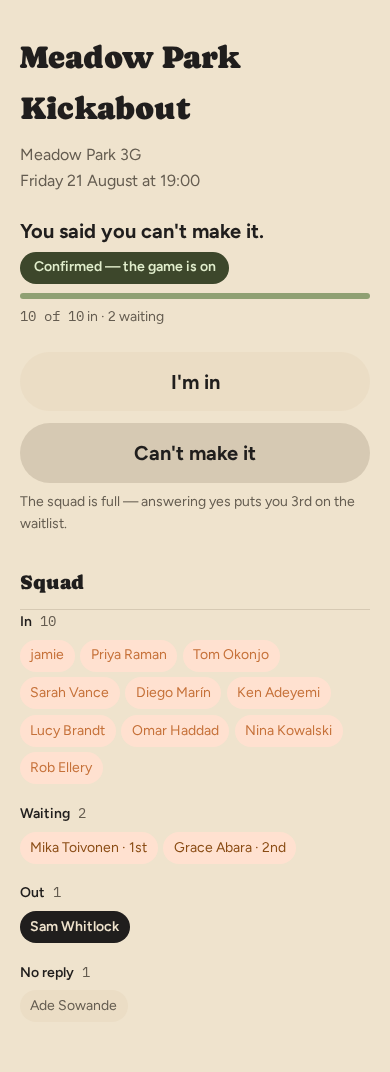
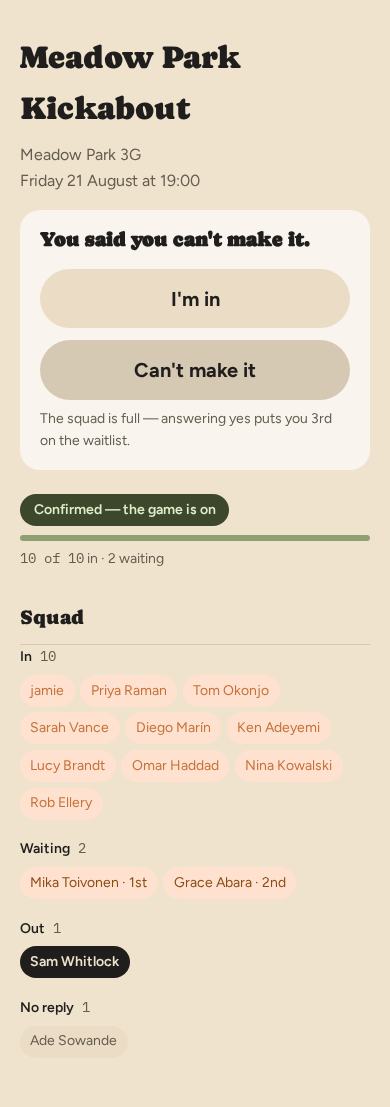
feat: the response page says your state once, in one block (M20 B7)
Claude-Session: https://claude.ai/code/session_01Erq3NJUsRVuCbi3ifphCse

diff --git a/test/views/fixture.test.ts b/test/views/fixture.test.ts
@@ -186,8 +186,10 @@ describe("fixture page", () => {
       // Search for the opening tags, not the bare class names — the
       // stylesheet in <head> mentions both class names ahead of either
       // actual element, which would make a bare substring search find the
-      // CSS rule instead of the rendered markup.
-      const headlineIndex = html.indexOf('<p class="viewer-headline');
+      // CSS rule instead of the rendered markup. The headline is the answer
+      // block's h2 since M20 B7; the block still sits above the badge, which
+      // is the guarantee this test exists for.
+      const headlineIndex = html.indexOf('<h2 class="viewer-headline');
       const badgeIndex = html.indexOf('<p class="status-badge');
       expect(headlineIndex).toBeGreaterThan(-1);
       expect(badgeIndex).toBeGreaterThan(-1);
@@ -1224,5 +1226,90 @@ describe("a stored lifecycle this build has never heard of", () => {
     const html = renderStatusLine(view(`x" onclick="alert(1)` as never), 0);
     expect(html).not.toContain(`onclick="alert(1)"`);
     expect(html).toContain("&quot;");
+  });
+});
+
+/**
+ * M20 B7. The viewer's own state — the headline, the buttons or the read-only
+ * sentence, and the pre-tap warning — is said once, in one tinted block, with
+ * the fixture's impersonal facts below it rather than interleaved with it.
+ */
+describe("the answer block (M20 B7)", () => {
+  /** The answer section's inner HTML, or null if the page rendered no block. */
+  function answerBlock(html: string): { state: string; inner: string } | null {
+    const match = html.match(/<section class="answer answer-([a-z]+)">([\s\S]*?)<\/section>/);
+    return match === null ? null : { state: match[1] as string, inner: match[2] as string };
+  }
+
+  it("wraps headline, buttons and full-warning in one state-classed section", () => {
+    const html = renderFixturePage(
+      optionsWith({
+        view: { status: "confirmed", flags: [], inCount: 14, minPlayers: 10, maxPlayers: 14, spotsLeft: 0, needsOwnerAttention: false },
+        viewer: { playerId: "p2", status: "pending" },
+        waitlistCount: 2,
+      }),
+    );
+    const block = answerBlock(html);
+    expect(block).not.toBeNull();
+    expect(block?.state).toBe("open");
+    expect(block?.inner).toContain("Can you make it?");
+    expect(block?.inner).toContain("aria-pressed");
+    expect(block?.inner).toContain("The squad is full");
+  });
+
+  it("keeps the fixture's own facts below the block, not inside it", () => {
+    const html = renderFixturePage(BASE);
+    const blockEnd = html.indexOf("</section>");
+    expect(blockEnd).toBeGreaterThan(-1);
+    // The badge is the fixture's fact, so it must not appear inside the
+    // viewer's block — and it must still be on the page exactly once.
+    expect(answerBlock(html)?.inner).not.toContain("status-badge");
+    const badgeIndex = html.indexOf('<p class="status-badge');
+    expect(badgeIndex).toBeGreaterThan(blockEnd);
+  });
+
+  it("names the waitlisted state on the block", () => {
+    const html = renderFixturePage(
+      optionsWith({ viewer: { playerId: "p2", status: "waitlisted", waitlistRank: 2 } }),
+    );
+    expect(html).toContain('class="answer answer-waiting"');
+  });
+
+  it("names the going and declined states on the block", () => {
+    const going = renderFixturePage(optionsWith({ viewer: { playerId: "p1", status: "in" } }));
+    expect(going).toContain('class="answer answer-going"');
+    const declined = renderFixturePage(optionsWith({ viewer: { playerId: "p1", status: "out" } }));
+    expect(declined).toContain('class="answer answer-declined"');
+  });
+
+  it("renders read-only states as the block with a sentence for buttons", () => {
+    for (const readOnlyReason of ["played", "cancelled", "not-open", "not-eligible"] as const) {
+      const html = renderFixturePage(optionsWith({ readOnlyReason }));
+      expect(html).toContain('class="answer answer-closed"');
+      expect(html).not.toContain("aria-pressed");
+      expect(answerBlock(html)?.inner).toContain('class="read-only"');
+    }
+  });
+
+  it("never renders buttons and a read-only sentence together, in any state", () => {
+    const statuses = ["pending", "in", "out", "waitlisted"] as const;
+    const reasons = [undefined, "played", "cancelled", "not-open", "not-eligible"] as const;
+    for (const status of statuses) {
+      for (const readOnlyReason of reasons) {
+        const html = renderFixturePage(
+          optionsWith({
+            viewer: { playerId: "p2", status, waitlistRank: status === "waitlisted" ? 1 : null },
+            readOnlyReason,
+          }),
+        );
+        const inner = answerBlock(html)?.inner ?? "";
+        expect(inner).not.toBe("");
+        expect(inner.includes('name="intent"') && inner.includes('class="read-only"')).toBe(false);
+        // One block per page, and one badge per page: the restructure must not
+        // duplicate either.
+        expect(html.split('<section class="answer').length - 1).toBe(1);
+        expect(html.split('<p class="status-badge').length - 1).toBe(1);
+      }
+    }
   });
 });

diff --git a/src/views/fixture.ts b/src/views/fixture.ts
@@ -605,6 +605,28 @@ function renderReadOnlyNotice(reason: ReadOnlyReason): string {
 }
 
 /**
+ * Which state the answer block is in (M20 B7): one card carrying the viewer's
+ * own state — their headline, the buttons or the read-only sentence, and the
+ * pre-tap warning — said once, with the fixture's impersonal facts below it
+ * rather than interleaved with them.
+ *
+ * The class names a *state*, not a colour, so a retint never needs a markup
+ * change. `readOnly` wins over every status because a closed page has no
+ * question to answer: a viewer recorded `in` on a played fixture is `closed`,
+ * not `going`, and the block must not offer the going treatment to somebody
+ * who cannot act.
+ *
+ * Exported and called from `renderRow` in `src/views/dashboard.ts` for the
+ * same reason `viewerHeadlineOpen` and `renderResponseButtons` are: two
+ * copies of "what state is this viewer in" is how the two pages start
+ * disagreeing about it.
+ */
+export function answerStateOf(status: ResponseStatus, readOnly: boolean): string {
+  if (readOnly) return "closed";
+  return status === "waitlisted" ? "waiting" : status === "in" ? "going" : status === "out" ? "declined" : "open";
+}
+
+/**
  * Render the page a player sees when they tap their response link.
  *
  * Server-rendered only — no `<script>`, no auto-submit (TR-4, TR-15). Both
@@ -629,11 +651,13 @@ export function renderFixturePage(options: FixturePageOptions): string {
     <h1>${escapeHtml(gameName)}</h1>
     <p class="venue">${escapeHtml(venueName)}</p>
     <p class="kickoff">${escapeHtml(kicksOffAtLocal)}</p>
-    ${headline ? `<p class="${headlineClass}">${escapeHtml(headline)}</p>` : ""}
+    <section class="answer answer-${answerStateOf(viewer.status, readOnlyReason !== undefined)}">
+      ${headline ? `<h2 class="${headlineClass}">${escapeHtml(headline)}</h2>` : ""}
+      ${readOnlyReason ? renderReadOnlyNotice(readOnlyReason) : renderButtons(options) + renderFullWarning(view, viewer, options.waitlistCount)}
+    </section>
     ${renderStatusLine(view, options.waitlistCount)}
     ${renderNudge(view)}
     ${renderOverCapacity(view)}
-    ${readOnlyReason ? renderReadOnlyNotice(readOnlyReason) : renderButtons(options) + renderFullWarning(view, viewer, options.waitlistCount)}
     ${
       pushOffer === undefined
         ? ""

diff --git a/src/views/dashboard.ts b/src/views/dashboard.ts
@@ -11,7 +11,13 @@ import {
 } from "../auth/paths.js";
 import type { FixtureView } from "../domain/fixture-view.js";
 import type { ResponseStatus } from "../domain/response-status.js";
-import { renderFullWarning, renderResponseButtons, renderStatusLine, viewerHeadlineOpen } from "./fixture.js";
+import {
+  answerStateOf,
+  renderFullWarning,
+  renderResponseButtons,
+  renderStatusLine,
+  viewerHeadlineOpen,
+} from "./fixture.js";
 import { escapeHtml, layout, type PageNav } from "./layout.js";
 import { DASHBOARD_STYLES_CSS, FIXTURE_STYLES_CSS } from "./styles.js";
 
@@ -129,6 +135,12 @@ function renderRow(row: DashboardRow): string {
   // and not the other (BR-5).
   const headline = viewerHeadlineOpen({ status: row.myStatus, waitlistRank: null });
   const headlineClass = `viewer-headline${row.myStatus === "waitlisted" ? " warn" : ""}`;
+  // The card ends in the same answer block the response page opens with
+  // (M20 B7), through the same exported state expression rather than a second
+  // copy of it — the reason the headline itself is imported. `false` for
+  // read-only because this row carries no read-only reason at all: the card's
+  // controls are live whatever `row.view.status` says, exactly as they were
+  // before this block existed.
 
   return `
     <li class="fixture-card">
@@ -136,9 +148,11 @@ function renderRow(row: DashboardRow): string {
       <p class="kickoff">${escapeHtml(row.kicksOffAtLocal)}</p>
       <p class="venue">${escapeHtml(row.venueName)}</p>
       ${renderStatusLine(row.view, row.waitlistCount)}
-      ${headline ? `<p class="${headlineClass}">${escapeHtml(headline)}</p>` : ""}
-      ${renderActions(row)}
-      ${renderFullWarning(row.view, { status: row.myStatus }, row.waitlistCount)}
+      <section class="answer answer-${answerStateOf(row.myStatus, false)}">
+        ${headline ? `<p class="${headlineClass}">${escapeHtml(headline)}</p>` : ""}
+        ${renderActions(row)}
+        ${renderFullWarning(row.view, { status: row.myStatus }, row.waitlistCount)}
+      </section>
     </li>`;
 }
 

diff --git a/src/views/styles.ts b/src/views/styles.ts
@@ -69,6 +69,28 @@ export const FIXTURE_STYLES_CSS = `
      cannot drift from the twenty-one 5% steps the renderer can emit. */
 ${Array.from({ length: 21 }, (_, i) => `  .capacity .fill.w-${i * 5} { width: ${i * 5}%; }`).join("\n")}
 
+  /* The answer block (M20 B7): the viewer's own state — headline, controls or
+     the closed-page sentence, and the pre-tap warning — in one card, so it is
+     read once rather than picked out of a run of fixture facts. Each tint
+     follows the state class, so a colour change never needs a markup change:
+     waiting is amber, going is the settled green, closed is the quiet field
+     grey, and open and declined keep the plain raised card. */
+  .answer {
+    margin: 1rem 0; padding: 1.1rem 1.25rem;
+    border-radius: 1.25rem; background: var(--card-raised);
+  }
+  .answer .viewer-headline { margin-top: 0; }
+  .answer .responses { margin-top: 1rem; }
+  .answer.answer-waiting { background: var(--warn-bg); }
+  .answer.answer-going { background: var(--ok-bg); }
+  .answer.answer-closed { background: var(--field); }
+  /* Inside an amber block the amber "waiting" button would disappear into its
+     own background, so it takes the stronger wait fill there. */
+  .answer.answer-waiting .button.chosen-waiting { background: var(--wait); color: var(--wait-fg); }
+  /* The closed block is already the card, so the notice inside it drops the
+     second panel it would otherwise draw. */
+  .answer.answer-closed .read-only { margin-top: 0; padding: 0; background: none; }
+
   .viewer-headline {
     margin-top: 1.5rem; font-size: var(--t-lead); font-weight: 700; color: var(--fg); line-height: 1.3;
   }

diff --git a/test/routes/dashboard.test.ts b/test/routes/dashboard.test.ts
@@ -669,6 +669,39 @@ describe("GET /app", () => {
   });
 });
 
+describe("the card's answer block (M20 B7)", () => {
+  it("ends the card with one state-classed block holding the headline and the buttons", async () => {
+    const { cookie } = await signIn();
+    const playerId = await viewerId();
+    const { fixtureId } = await seedFixtureFor(playerId, { maxPlayers: 14 });
+    await setResponse(fixtureId, playerId, "in");
+
+    const body = await (await get(cookie)).text();
+
+    const block = body.match(/<section class="answer answer-going">([\s\S]*?)<\/section>/);
+    expect(block).not.toBeNull();
+    expect(block![1]).toContain("viewer-headline");
+    expect(block![1]).toContain('name="intent" value="in"');
+    // The fixture's own facts stay above the block, as on the response page.
+    expect(body.indexOf('<p class="status-badge')).toBeLessThan(body.indexOf('<section class="answer'));
+  });
+
+  it("names the waiting state the same way the response page does", async () => {
+    const { cookie } = await signIn();
+    const playerId = await viewerId();
+    const { fixtureId, otherPlayerIds } = await seedFixtureFor(playerId, {
+      maxPlayers: 1,
+      others: ["Other Player"],
+    });
+    await setResponse(fixtureId, otherPlayerIds[0]!, "in");
+    await setResponse(fixtureId, playerId, "in");
+
+    const body = await (await get(cookie)).text();
+
+    expect(body).toContain('<section class="answer answer-waiting">');
+  });
+});
+
 describe("the Your squads section (M20 B3)", () => {
   it("lists every membership with the owned marker, and links each game", async () => {
     const { html } = await viewer();

diff --git a/test/routes/respond-post.test.ts b/test/routes/respond-post.test.ts
@@ -657,7 +657,8 @@ describe("POST /r/:token — a waitlisted viewer never reads as confirmed (BR-5,
     // ...and visually distinct from a confirmation: warn-coloured headline,
     // positioned before the fixture's own (still green/"confirmed") badge...
     expect(body).toMatch(/class="viewer-headline warn"/);
-    const headlineIndex = body.indexOf('<p class="viewer-headline');
+    // The headline is the answer block's h2 since M20 B7, still above the badge.
+    const headlineIndex = body.indexOf('<h2 class="viewer-headline');
     const badgeIndex = body.indexOf('<p class="status-badge');
     expect(headlineIndex).toBeGreaterThan(-1);
     expect(badgeIndex).toBeGreaterThan(-1);

diff --git a/test/views/contrast.test.ts b/test/views/contrast.test.ts
@@ -38,9 +38,15 @@ const PAIRS: readonly [string, string, number][] = [
   ["--fg", "--card", 4.5],
   ["--fg", "--card-raised", 4.5],
   ["--fg", "--field", 4.5],
+  // The going answer block (M20 B7) is an --ok-bg card holding the viewer's
+  // headline, which is --fg.
+  ["--fg", "--ok-bg", 4.5],
   ["--mut", "--bg", 4.5],
   ["--mut", "--card", 4.5],
   ["--mut", "--card-raised", 4.5],
+  // The closed answer block (M20 B7) is a --field card holding the read-only
+  // sentence, which is --mut small text.
+  ["--mut", "--field", 4.5],
   ["--link", "--bg", 4.5],
   ["--link", "--card", 4.5],
   ["--link", "--card-raised", 4.5],
